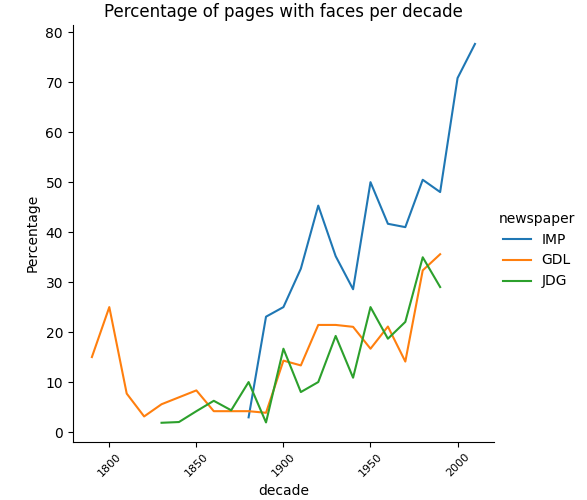
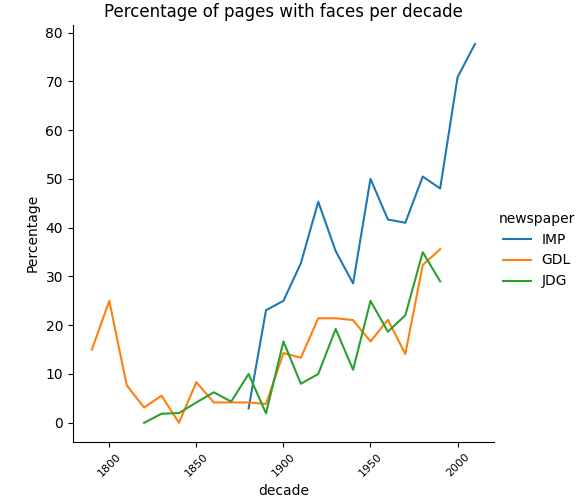
small changes

diff --git a/assignment_4/src/counting_faces.py b/assignment_4/src/counting_faces.py
@@ -36,14 +36,22 @@ def get_num_faces(file_path):
     return num_faces
 
 
+def df_for_newspaper(perc_pages_with_faces_per_decade, faces_raw_count_per_decade, newspaper_name):
+    '''
+    Create DataFrame for each newspaper by merging 2 dictionaries 
+    '''
+    df = pd.DataFrame.from_dict(perc_pages_with_faces_per_decade, orient='index', columns=['Percentage'])
+    df_2 = pd.DataFrame.from_dict(faces_raw_count_per_decade, orient='index', columns=['count'])
+    done = pd.merge(df, df_2, left_index=True, right_index=True)
+    done['newspaper'] = newspaper_name
+    done.sort_index(axis=0, ascending=True, inplace=True)
+    done.to_csv(f'out/{newspaper_name}_data.csv')
+
+
 def loop_through_files(folderpath): 
-    '''
-    This function loops through all files and extract information
-    '''
+    """ This function loops through all files and extract information """
     for newspaper_folder in sorted(os.listdir(folderpath)):
-        '''
-        Construct the path to the current newspaper 
-        '''
+        """ Construct the path to the current newspaper """
         full_path = os.path.join(folderpath, newspaper_folder)
 
         if os.path.isdir(full_path):
@@ -51,57 +59,45 @@ def loop_through_files(folderpath):
             '''
             Initialize dictionaries for the current newspaper 
             '''
-            pages_per_decade = {}
-            faces_relative_count_per_decade = {}   
-            faces_raw_count_per_decade = {}
-            perc_pages_with_faces_per_decade = {}
+            pages_per_decade, faces_relative_count_per_decade, faces_raw_count_per_decade, perc_pages_with_faces_per_decade = {}, {}, {}, {}
             '''
             Loops through all files for the current newspaper
             '''
-            for filename in tqdm(os.listdir(full_path), desc=newspaper_name):
+            for filename in tqdm(sorted(os.listdir(full_path)), desc=newspaper_name):
                 '''
                 Construct the path to the current file
                 '''
                 file_path = os.path.join(full_path, filename)
                 if os.path.isfile(file_path) and filename.endswith(".jpg"):
                     '''
-                    Extract the decade from the filename and increment the count of pages for the current decade
+                    Extracts the decade from the filename and increment the count of pages for the current decade
                     '''
                     decade = extract_decade(filename)
-
-                    pages_per_decade.setdefault(decade, 0)
-                    pages_per_decade[decade] += 1
+                    pages_per_decade.setdefault(decade, 0) 
+                    pages_per_decade[decade] += 1 
                     '''
-                    Get number of faces and increment the counter if at least one face is detected on this page
+                    Gets the number of faces and fill the dictionaries based on the number of faces
                     '''
                     num_faces = get_num_faces(file_path)
-
                     if num_faces > 0:
                         faces_relative_count_per_decade.setdefault(decade, 0)
                         faces_relative_count_per_decade[decade] += 1
-                        
-                    if num_faces > 0:
                         faces_raw_count_per_decade.setdefault(decade, 0)
                         faces_raw_count_per_decade[decade] += num_faces
 
+                    elif num_faces == 0: 
+                        faces_relative_count_per_decade.setdefault(decade, 0)
+                        faces_relative_count_per_decade[decade] += 0
+                        faces_raw_count_per_decade.setdefault(decade, 0)
+                        faces_raw_count_per_decade[decade] += 0
             '''
-            Calculate the percentage of pages with faces for each decade
+            Calculate the percentage of pages with faces for each decade using the dictionaries. Saves the results in a dataframe
             '''
-            perc_pages_with_faces_per_decade[newspaper_name] = {}
             for decade, page_count in pages_per_decade.items():
-                if page_count > 0:
-                    perc_pages_with_faces_per_decade[newspaper_name][decade] = round((faces_relative_count_per_decade.get(decade, 0) / page_count) * 100, 2)
-                else:
-                    perc_pages_with_faces_per_decade[newspaper_name][decade] = 0
-            '''
-            Create DataFrame from extracted information
-            '''
-            df = pd.DataFrame.from_dict(perc_pages_with_faces_per_decade[newspaper_name], orient='index', columns=['Percentage'])
-            df_2 = pd.DataFrame.from_dict(faces_raw_count_per_decade, orient='index', columns=['count'])
-            done = pd.merge(df, df_2, left_index=True, right_index=True)
-            done['newspaper'] = newspaper_name
-            done.sort_index(axis=0, ascending=True, inplace=True)
-            done.to_csv(f'out/{newspaper_name}_data.csv')
+                perc_pages_with_faces_per_decade[decade] = round((faces_relative_count_per_decade.get(decade, 0) / page_count) * 100, 2)
+
+            df_for_newspaper(perc_pages_with_faces_per_decade, faces_raw_count_per_decade, newspaper_name)
+
 
 
 def merged_df():
